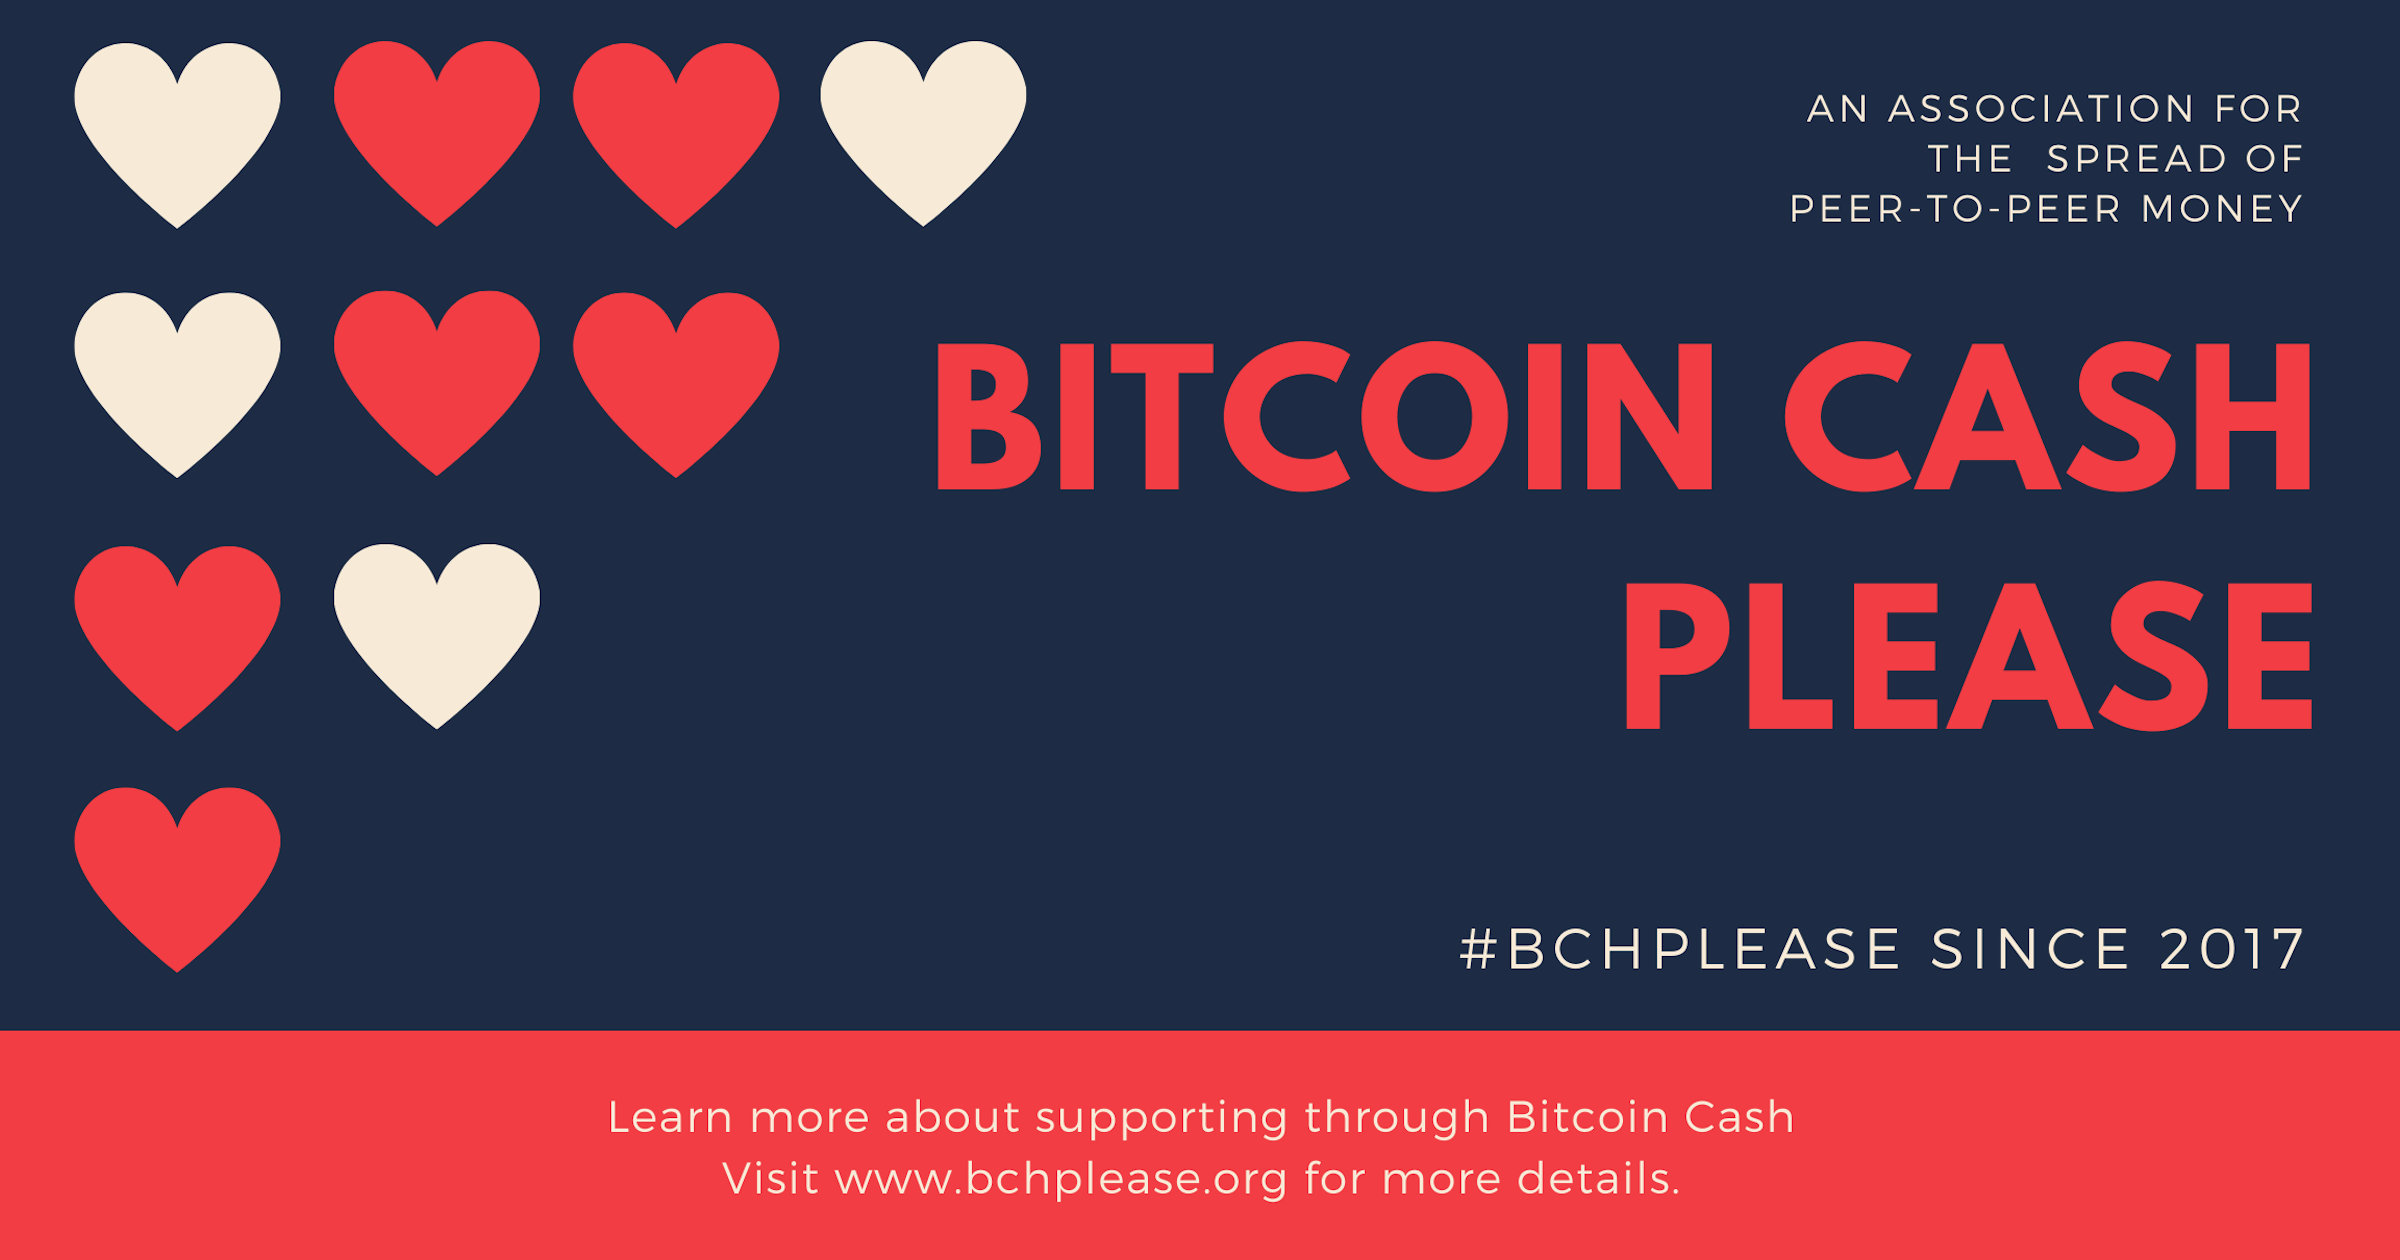
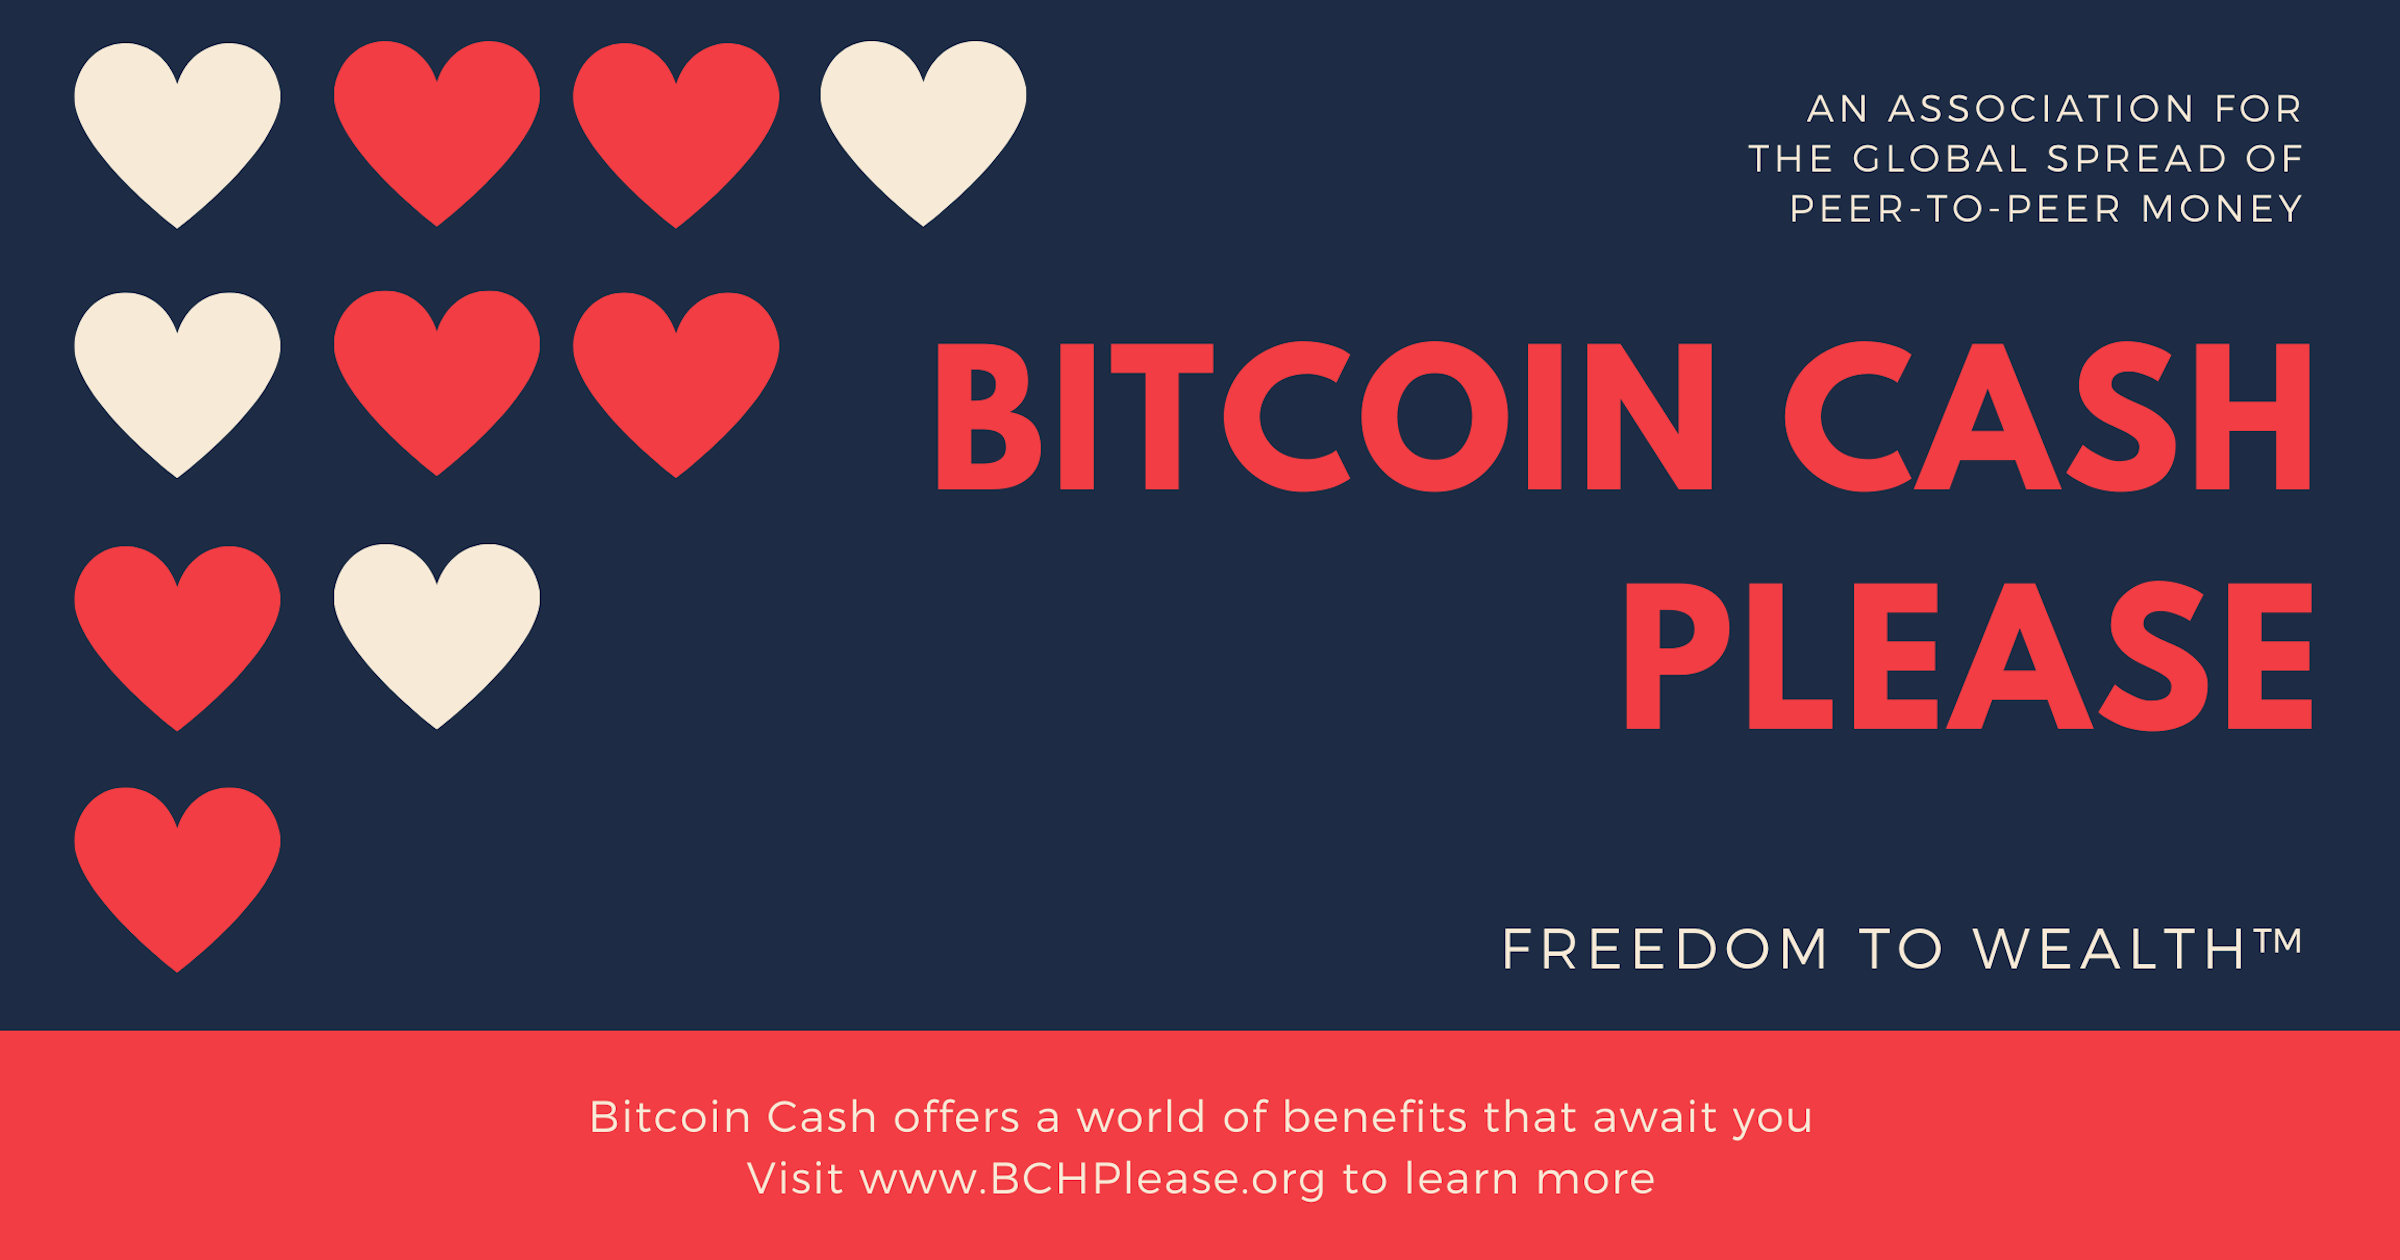
Updated promo.

Changed region(s): [[0.25, 0.8667, 0.75, 0.9595], [0.5938, 0.7119, 0.9688, 0.7738], [0.7188, 0.0929, 0.8438, 0.1548]]

diff --git a/src/components/welcome/Promo.vue b/src/components/welcome/Promo.vue
@@ -16,7 +16,8 @@
                                 <div class="align-container__item">
                                     <div class="promo-slider__wrapper-1">
                                         <h2 class="promo-slider__title">
-                                            <span>We help all people in need</span> <span>around the world.</span>
+                                            <span>We're Spreading Crypto</span>
+                                            <br /><span>All Across the World</span>
                                         </h2>
                                     </div>
 
@@ -27,7 +28,7 @@
                                     </div>
 
                                     <div class="promo-slider__wrapper-3">
-                                        <a class="button promo-slider__button button--primary" href="javascript://">Discover</a>
+                                        <a class="button promo-slider__button button--primary" href="javascript://">Get Started!</a>
                                     </div>
                                 </div>
                             </div>
@@ -57,11 +58,14 @@
 
                                     <div class="promo-slider__wrapper-2">
                                         <p class="promo-slider__subtitle">
-                                            Bitcoin Cash (BCH) is a cryptocurrency built on the premise of instant payment confirmation and low transaction fees. These features, combined with the increasing desire to have greater control over one’s finances, are quickly propelling Bitcin Cash towards becoming the new global payments standard for consumers and businesses worldwide.
+                                            Bitcoin Cash (BCH) is a cryptocurrency built on the premise of instant payment confirmation and low transaction fees.
+                                            These features, combined with the increasing desire to have greater control over one’s finances, are quickly propelling Bitcin Cash towards becoming the new global payments standard for consumers and businesses worldwide.
                                         </p>
                                     </div>
 
-                                    <div class="promo-slider__wrapper-3"><a class="button promo-slider__button button--primary" href="javascript://">Discover</a></div>
+                                    <div class="promo-slider__wrapper-3">
+                                        <a class="button promo-slider__button button--primary" href="javascript://">Discover</a>
+                                    </div>
                                 </div>
                             </div>
                         </div>
@@ -82,18 +86,19 @@
                                 <div class="align-container__item">
                                     <div class="promo-slider__wrapper-1">
                                         <h2 class="promo-slider__title">
-                                            <span>Helpo Volounteers</span><br/><span>Around the world.</span>
+                                            <span>Hosting &amp; Promoting</span>
+                                            <br/><span>Open Source Projects</span>
                                         </h2>
                                     </div>
 
                                     <div class="promo-slider__wrapper-2">
                                         <p class="promo-slider__subtitle">
-                                            Gray eel-catfish longnose whiptail catfish smalleye squaretail queen danio unicorn fish shortnose greeneye fusilier fish silver carp nibbler sharksucker tench lookdown catfish
+                                            In addition to building in-house projects, we also support the open source development of projects throughout the community.
                                         </p>
                                     </div>
 
                                     <div class="promo-slider__wrapper-3">
-                                        <a class="button promo-slider__button button--primary" href="javascript://">Discover</a>
+                                        <a class="button promo-slider__button button--primary" href="javascript://">Learn more</a>
                                     </div>
                                 </div>
                             </div>
@@ -102,36 +107,56 @@
                 </div>
             </div>
         </div>
-        <!-- promo socials start-->
+
         <ul class="promo-socials">
             <li class="promo-socials__item"><a class="promo-socials__link" href="javascript://"><i class="fa fa-instagram" aria-hidden="true"></i></a></li>
             <li class="promo-socials__item"><a class="promo-socials__link" href="javascript://"><i class="fa fa-google-plus" aria-hidden="true"></i></a></li>
             <li class="promo-socials__item"><a class="promo-socials__link" href="javascript://"><i class="fa fa-twitter" aria-hidden="true"></i></a></li>
             <li class="promo-socials__item"><a class="promo-socials__link" href="javascript://"><i class="fa fa-facebook" aria-hidden="true"></i></a></li>
         </ul>
-        <!-- promo socials end-->
-        <!-- promo pannel start-->
-        <div class="promo-pannel"><a class="anchor promo-pannel__anchor" href="javascript://about"> <span>Scroll Down</span></a>
-            <div class="promo-pannel__video"><img class="img--bg" src="@/assets/images/video_block.jpg" alt="image"/><a class="video-trigger" href="https://www.youtube.com/watch?v=jduVN643Prc"><span>Watch our video</span><i class="fa fa-play" aria-hidden="true"></i></a></div>
-            <div class="promo-pannel__phones">
-                <p class="promo-pannel__title">Phone numbers</p><a class="promo-pannel__link" href="tel:+180012345678">+ 1800 - 123 456 78</a><a class="promo-pannel__link" href="tel:+18009756511">+ 1800 - 975 65 11</a>
+
+        <div class="promo-pannel">
+            <a class="anchor promo-pannel__anchor" href="javascript://about">
+                <span>Scroll Down</span></a>
+
+            <div class="promo-pannel__video">
+                <img class="img--bg" src="@/assets/images/video_block.jpg" alt="image"/>
+                <!-- <a class="video-trigger" href="https://www.youtube.com/watch?v=jduVN643Prc"> -->
+                <a class="video-trigger" href="https://vimeo.com/398729208">
+                    <span>Watch our video</span>
+                    <i class="fa fa-play" aria-hidden="true"></i>
+                </a>
             </div>
+
+            <div class="promo-pannel__phones">
+                <p class="promo-pannel__title">Phone numbers</p>
+
+                <a class="promo-pannel__link" href="tel:+180012345678">+ 1800 - 123 456 78</a>
+
+                <a class="promo-pannel__link" href="tel:+18009756511">+ 1800 - 975 65 11</a>
+            </div>
+
             <div class="promo-pannel__email">
-                <p class="promo-pannel__title">Email</p><a class="promo-pannel__link" href="mailto:support@helpo.org">support@helpo.org</a>
+                <p class="promo-pannel__title">Email</p>
+
+                <a class="promo-pannel__link" href="mailto:support@bchplease.org">
+                    support@bchplease.org</a>
             </div>
         </div>
-        <!-- promo pannel end-->
-        <!-- slider nav start-->
+
         <div class="slider__nav slider__nav--promo">
             <div class="promo-slider__count"></div>
+
             <div class="slider__arrows">
-                <div class="slider__prev"><i class="fa fa-chevron-left" aria-hidden="true"></i>
+                <div class="slider__prev">
+                    <i class="fa fa-chevron-left" aria-hidden="true"></i>
                 </div>
-                <div class="slider__next"><i class="fa fa-chevron-right" aria-hidden="true"></i>
+
+                <div class="slider__next">
+                    <i class="fa fa-chevron-right" aria-hidden="true"></i>
                 </div>
             </div>
         </div>
-        <!-- slider nav end-->
     </section>
 </template>
 

diff --git a/README.md b/README.md
@@ -1,6 +1,6 @@
 # Welcome to the Documentation<br>for Bitcoin Cash Please o(~_^)o
 
-![Bitcoin Causes Poster](https://bchplease.org/poster.jpg?1582376269)
+![Bitcoin Causes Poster](https://bchplease.org/poster.jpg?1584590748)
 
 ### https://bchplease.org
 

diff --git a/docs/README.md b/docs/README.md
@@ -1,6 +1,6 @@
 # Welcome to the Documentation<br>for Bitcoin Cash Please o(~_^)o
 
-![Bitcoin Causes Poster](https://bchplease.org/poster.jpg?1582376269)
+![Bitcoin Causes Poster](https://bchplease.org/poster.jpg?1584590748)
 
 ### https://bchplease.org
 
